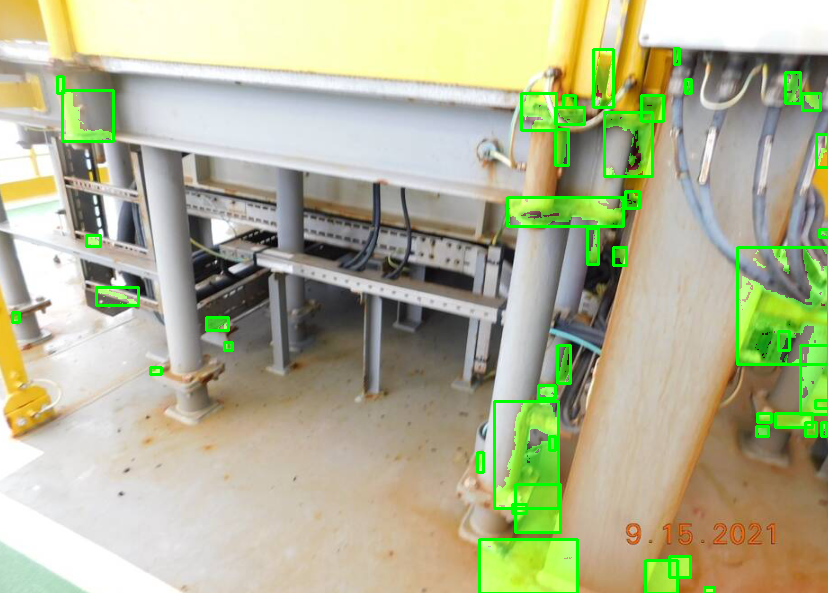
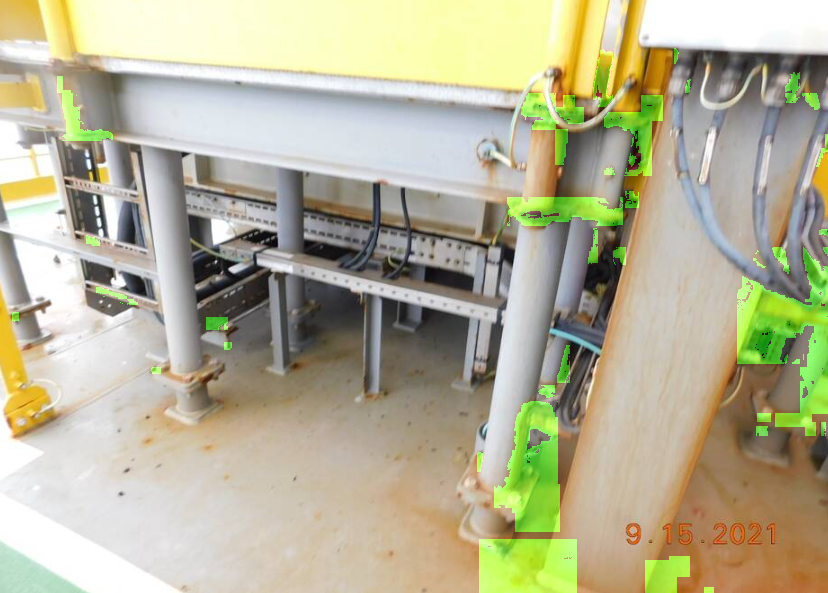
Main_concluded

diff --git a/color_detector.py b/color_detector.py
@@ -38,6 +38,8 @@ output_dir.mkdir(exist_ok=True)
 
 for image_path in input_dir.glob('*.png'):
     image = cv2.imread(str(image_path))
+    Clean_image = cv2.imread(str(image_path))
+
 
     # Check if the image was loaded successfully
     if image is None:
@@ -84,13 +86,13 @@ for image_path in input_dir.glob('*.png'):
         for contour in contours:
             if cv2.contourArea(contour) > 30:
                 x, y, w, h = cv2.boundingRect(contour)
-                cv2.rectangle(image, (x, y), (x + w, y + h), (0, 255, 0), 2)
+                cv2.rectangle(image, (x, y), (x + w, y + h), (0, 255, 0), 0)
 
                 # Change the color of the mask inside the rectangle to green
                 mask_colored[y:y+h, x:x+w][mask_inside[y:y+h, x:x+w] == 255] = [0, 255, 0]
 
     # Overlay the original image and the colored mask with a transparency of 50%
-    overlay = cv2.addWeighted(image, 1, mask_colored, 0.5, 0)
+    overlay = cv2.addWeighted(Clean_image, 1, mask_colored, 0.5, 0)
 
     # Save the result image in the output directory
     output_path = output_dir / image_path.name
